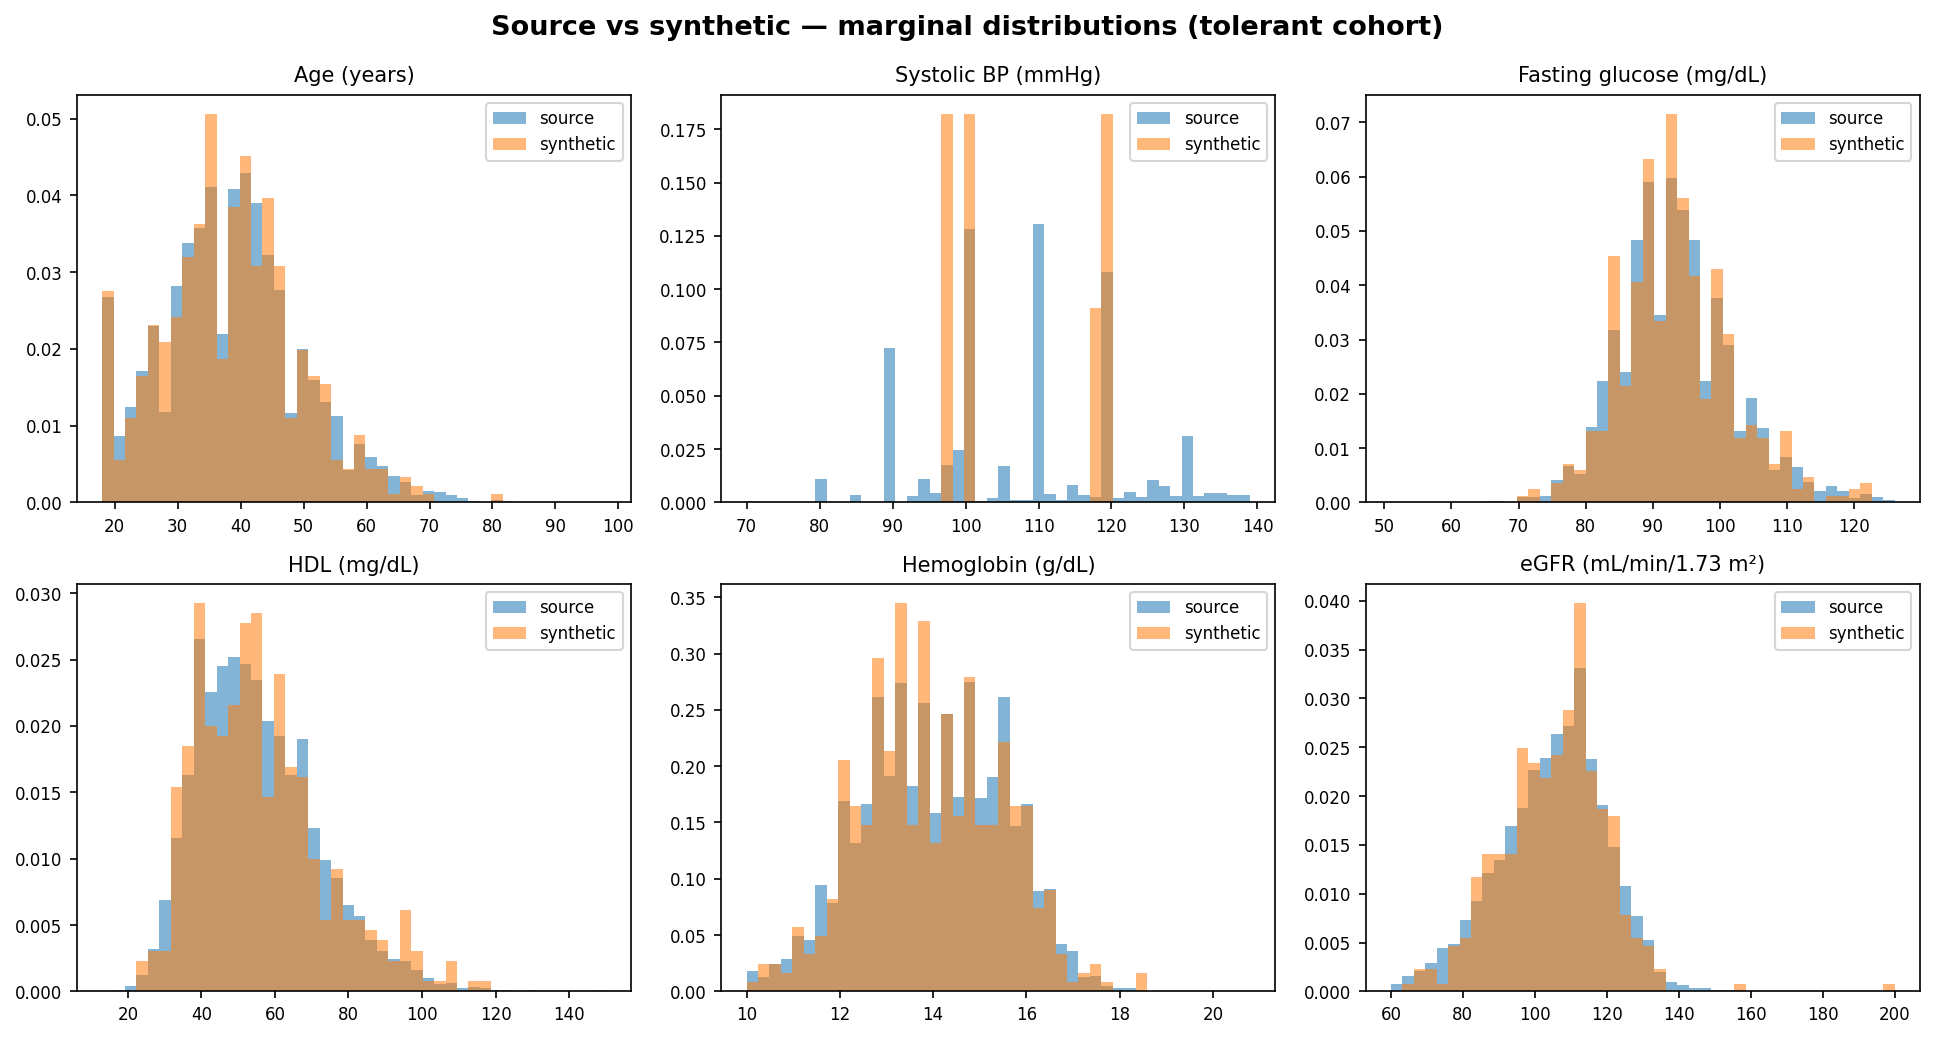
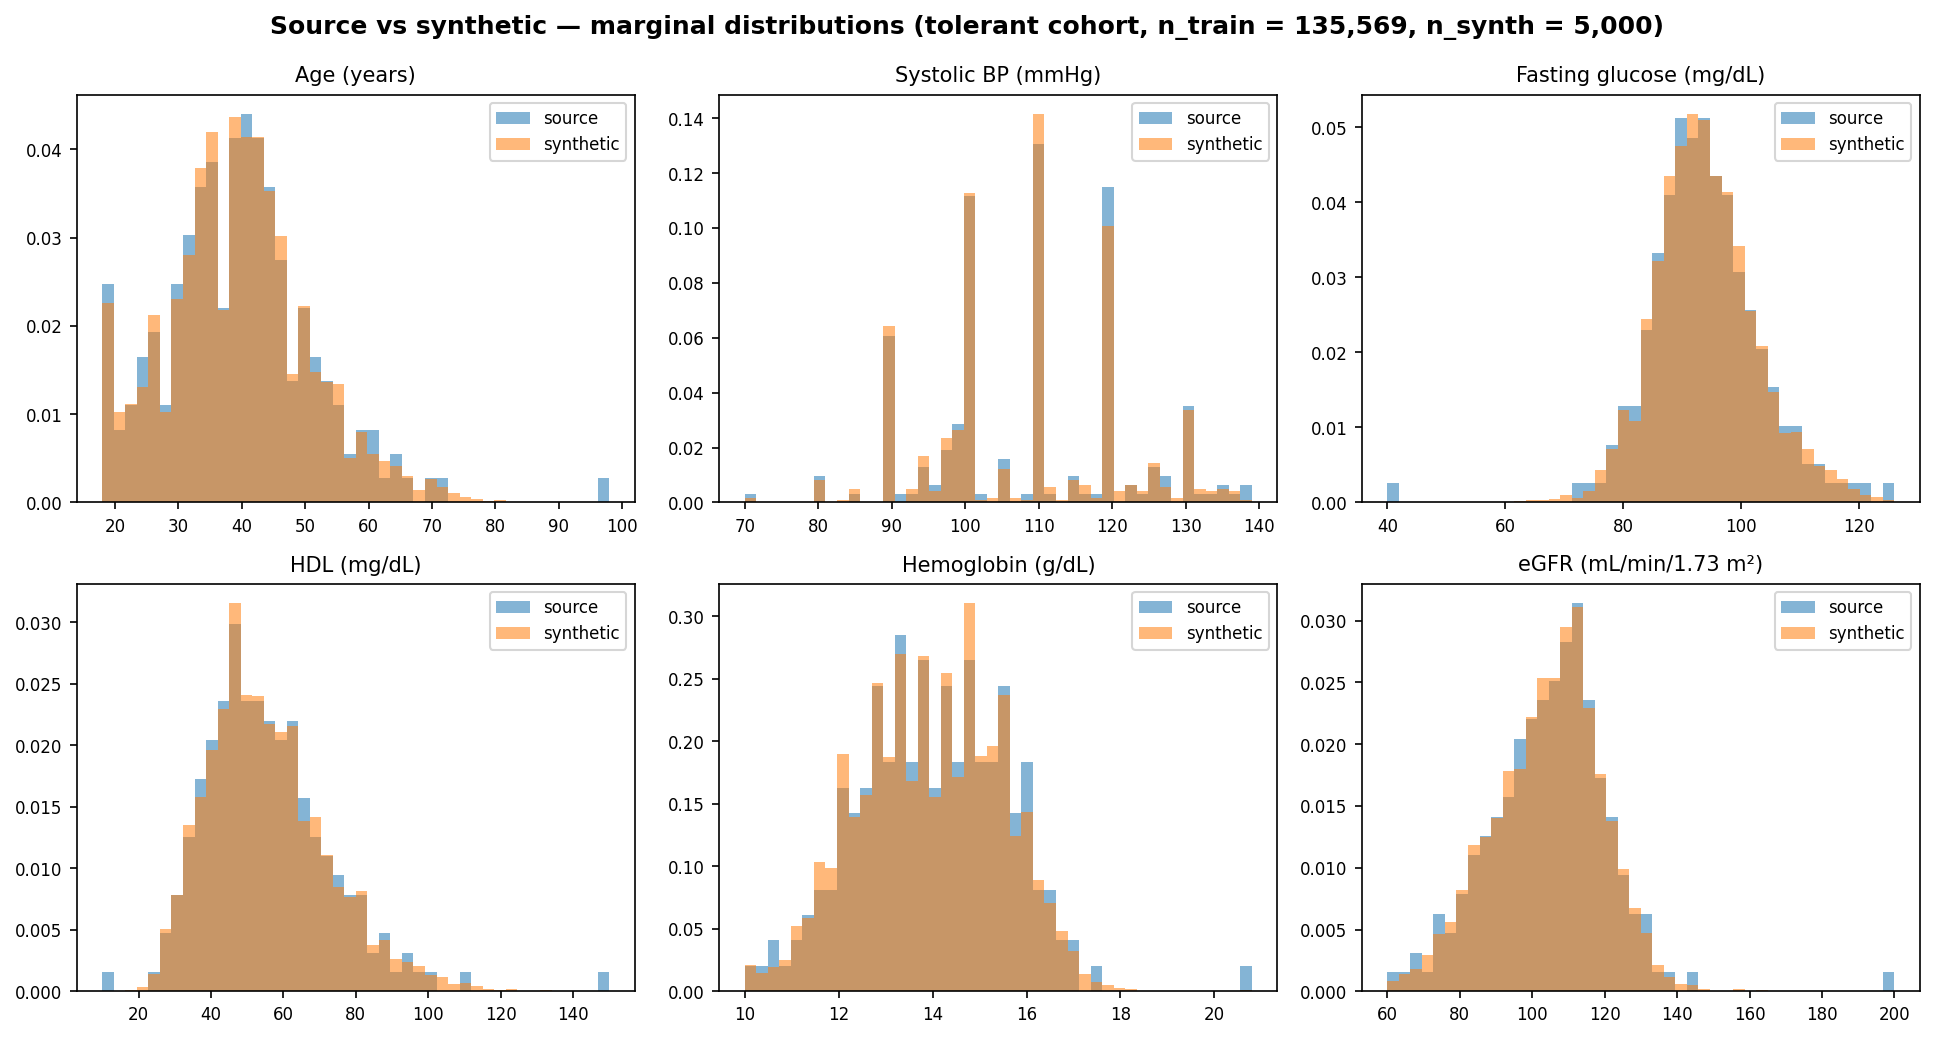
chore(release): 0.5.8
* plots: regenerated from bundled tolerant model JSON at n=5000 — BP
  histogram now matches source's discrete spike pattern instead of
  aliasing to 2-3 modes; prevalence chart renders with 10 comorbidities
  with real variance, percentages annotated above each bar.
* scripts/make_plots.py rewritten to be source-CSV-free.
* README: Contributors avatar URL fixed (numeric ID + correct query
  string); Acknowledgements + Community redesigned as captioned tables.

diff --git a/scripts/make_plots.py b/scripts/make_plots.py
@@ -1,4 +1,16 @@
-"""Generate README figures comparing source vs synthetic distributions.
+"""Generate README figures from the bundled tolerant copula model JSON.
+
+The script intentionally does **not** depend on the source CSV (which is
+PHI-adjacent and gitignored). Instead it reads the v2 model JSON that
+already ships in ``app/src/model_tolerant.json``:
+
+  * **Source** marginals come straight from the model:
+      - continuous columns → ``continuous_quantiles[col]`` (the empirical
+        order-statistics grid stored when the model was fitted)
+      - binary columns → ``binary_p[col]`` (the empirical prevalence)
+  * **Synthetic** is drawn by running the actual sampler against the model
+    via ``syntha.cli sample`` so the figures track whatever the released
+    desktop app would produce.
 
 Outputs (PNG, ~150 DPI) into docs/figures/:
   * distributions.png  — 2×3 grid of source vs synthetic histograms for
@@ -6,11 +18,12 @@ Outputs (PNG, ~150 DPI) into docs/figures/:
                           hemoglobin, eGFR).
   * correlations.png   — side-by-side Spearman correlation heatmaps for a
                           subset of clinical variables.
-  * prevalence.png     — disease-prevalence bar chart for the 8 most common
+  * prevalence.png     — disease-prevalence bar chart for the most common
                           comorbidities in the tolerant cohort.
 """
 from __future__ import annotations
 
+import json
 import sys
 from pathlib import Path
 
@@ -25,11 +38,17 @@ import pandas as pd
 ROOT = Path(__file__).resolve().parent.parent
 sys.path.insert(0, str(ROOT / "src"))
 
-from syntha import data, preprocess  # noqa: E402
+from syntha.models.registry import ModelRegistry  # noqa: E402
 
-SOURCE_CSV = ROOT / "data/raw/pristine_tolerant_episodes.csv"
-SYNTH_CSV = ROOT / "output/sample/synthetic_tolerant_episodes.csv"
+MODEL_JSON = ROOT / "app/src/model_tolerant.json"
+REGISTRY_DIR = ROOT / "output/tolerant/models"
+REGISTRY_NAME = "copula_tolerant"
 OUT_DIR = ROOT / "docs/figures"
+
+# Number of synthetic samples — large enough for smooth histograms even on
+# discretized source columns like BP (multiples of 5/10 mmHg dominate).
+N_SYNTHETIC = 5000
+SEED = 42
 
 CONT_PLOT_COLS = [
     ("age", "Age (years)"),
@@ -44,44 +63,60 @@ CORR_COLS = [
     "hdl_latest", "ldl_direct_latest", "hemoglobin_latest", "egfr_latest",
     "creatinine_latest",
 ]
+# Only show comorbidities with non-trivial prevalence in the tolerant
+# cohort — otherwise the bar chart collapses to an empty axis (as it did
+# on strict, where every comorbidity is 0% by construction).
 PREVALENCE_COLS = [
+    ("Tiroid", "Thyroid disorder"),
     ("Hiperlipidemi", "Hyperlipidemia"),
     ("Hipertansiyon", "Hypertension"),
     ("DM_Tum", "Diabetes"),
-    ("Tiroid", "Thyroid disorder"),
-    ("Anksiyete", "Anxiety"),
-    ("Depresyon", "Depression"),
+    ("Iskemik_Kalp", "Ischemic heart dis."),
     ("Astim", "Asthma"),
-    ("Obezite", "Obesity"),
+    ("COPD", "COPD"),
+    ("Kanser", "Cancer"),
+    ("Anksiyete", "Anxiety"),
+    ("Atriyal_Fibrilasyon", "Atrial fib."),
 ]
 
 
-def _load() -> tuple[pd.DataFrame, pd.DataFrame]:
-    src = preprocess.coerce_types(data.filter_to_modeled(data.load_episodes(SOURCE_CSV)))
-    src = preprocess.clip_to_physiologic(src)
-    syn = pd.read_csv(SYNTH_CSV, low_memory=False)
-    return src, syn
+def _load_model_payload() -> dict:
+    if not MODEL_JSON.exists():
+        raise SystemExit(f"missing bundled model: {MODEL_JSON} — run scripts/refresh_app_model.sh")
+    return json.loads(MODEL_JSON.read_text())
 
 
-def _plot_distributions(src: pd.DataFrame, syn: pd.DataFrame) -> Path:
+def _sample_synthetic(n: int) -> pd.DataFrame:
+    if not (REGISTRY_DIR / REGISTRY_NAME).exists():
+        raise SystemExit(
+            f"missing registered model: {REGISTRY_DIR}/{REGISTRY_NAME}\n"
+            "Run `bash scripts/refresh_app_model.sh` first."
+        )
+    gen, _card = ModelRegistry(str(REGISTRY_DIR)).load(REGISTRY_NAME)
+    return gen.sample(n)
+
+
+def _plot_distributions(payload: dict, syn: pd.DataFrame) -> Path:
     fig, axes = plt.subplots(2, 3, figsize=(13, 7))
     fig.suptitle(
-        "Source vs synthetic — marginal distributions (tolerant cohort)",
-        fontsize=13, fontweight="bold",
+        f"Source vs synthetic — marginal distributions (tolerant cohort, "
+        f"n_train = {payload['n_train']:,}, n_synth = {len(syn):,})",
+        fontsize=12, fontweight="bold",
     )
     for ax, (col, label) in zip(axes.flat, CONT_PLOT_COLS):
-        s = pd.to_numeric(src[col], errors="coerce").dropna()
-        t = pd.to_numeric(syn[col], errors="coerce").dropna()
-        if s.empty or t.empty:
+        source_q = np.asarray(payload["continuous_quantiles"].get(col, []), dtype=float)
+        source_q = source_q[~np.isnan(source_q)]
+        t = pd.to_numeric(syn[col], errors="coerce").dropna().to_numpy() if col in syn.columns else np.array([])
+        if source_q.size == 0 or t.size == 0:
             ax.set_title(f"{label} (no data)")
             continue
-        bins = np.linspace(
-            float(min(s.min(), t.min())),
-            float(max(s.max(), t.max())),
-            45,
-        )
-        ax.hist(s, bins=bins, alpha=0.55, color="#1f77b4", label="source", density=True)
-        ax.hist(t, bins=bins, alpha=0.55, color="#ff7f0e", label="synthetic", density=True)
+        lo = float(min(source_q.min(), t.min()))
+        hi = float(max(source_q.max(), t.max()))
+        bins = np.linspace(lo, hi, 45)
+        ax.hist(source_q, bins=bins, alpha=0.55, color="#1f77b4",
+                label="source", density=True)
+        ax.hist(t, bins=bins, alpha=0.55, color="#ff7f0e",
+                label="synthetic", density=True)
         ax.set_title(label, fontsize=10)
         ax.tick_params(labelsize=8)
         ax.legend(fontsize=8)
@@ -92,15 +127,30 @@ def _plot_distributions(src: pd.DataFrame, syn: pd.DataFrame) -> Path:
     return target
 
 
-def _plot_correlations(src: pd.DataFrame, syn: pd.DataFrame) -> Path:
-    cols = [c for c in CORR_COLS if c in src.columns and c in syn.columns]
-    a = src[cols].corr(method="spearman").fillna(0.0)
-    b = syn[cols].corr(method="spearman").fillna(0.0)
+def _empirical_correlation_from_payload(payload: dict, cols: list[str]) -> pd.DataFrame:
+    """Read source Spearman correlation from the stored correlation matrix.
+
+    The model JSON ships the *latent-Gaussian* correlation matrix; converting
+    it back to Spearman would be ``ρ_s = (6/π) arcsin(ρ/2)``. We only need
+    relative magnitudes for the heatmap so we plot the latent ρ directly.
+    """
+    full_cols = payload["columns"]
+    mat = np.asarray(payload["correlation"], dtype=float)
+    idx = [full_cols.index(c) for c in cols if c in full_cols]
+    sub = mat[np.ix_(idx, idx)]
+    return pd.DataFrame(sub, columns=[full_cols[i] for i in idx], index=[full_cols[i] for i in idx])
+
+
+def _plot_correlations(payload: dict, syn: pd.DataFrame) -> Path:
+    cols = [c for c in CORR_COLS if c in payload["columns"] and c in syn.columns]
+    a = _empirical_correlation_from_payload(payload, cols)
+    b = syn[cols].corr(method="spearman").fillna(0.0).reindex(columns=cols, index=cols)
+    diff = a - b
     fig, axes = plt.subplots(1, 3, figsize=(15, 5.5), constrained_layout=True)
     for ax, mat, title in (
-        (axes[0], a, "Source Spearman ρ"),
+        (axes[0], a, "Source ρ (latent Gaussian)"),
         (axes[1], b, "Synthetic Spearman ρ"),
-        (axes[2], a - b, "Source − Synthetic"),
+        (axes[2], diff, "Source − Synthetic"),
     ):
         im = ax.imshow(mat.to_numpy(), cmap="RdBu_r", vmin=-1, vmax=1)
         ax.set_xticks(range(len(cols)))
@@ -115,24 +165,41 @@ def _plot_correlations(src: pd.DataFrame, syn: pd.DataFrame) -> Path:
     return target
 
 
-def _plot_prevalence(src: pd.DataFrame, syn: pd.DataFrame) -> Path:
-    labels = [lab for _, lab in PREVALENCE_COLS]
-    src_p = [float(pd.to_numeric(src[c], errors="coerce").dropna().mean()) * 100 for c, _ in PREVALENCE_COLS]
-    syn_p = [float(pd.to_numeric(syn[c], errors="coerce").dropna().mean()) * 100 for c, _ in PREVALENCE_COLS]
+def _plot_prevalence(payload: dict, syn: pd.DataFrame) -> Path:
+    pairs = [(c, lab) for c, lab in PREVALENCE_COLS
+             if c in payload["binary_p"] and c in syn.columns]
+    labels = [lab for _, lab in pairs]
+    src_p = [float(payload["binary_p"][c]) * 100 for c, _ in pairs]
+    syn_p = [float(pd.to_numeric(syn[c], errors="coerce").dropna().mean()) * 100
+             for c, _ in pairs]
     x = np.arange(len(labels))
     width = 0.4
-    fig, ax = plt.subplots(figsize=(11, 5))
-    ax.bar(x - width / 2, src_p, width, label="source", color="#1f77b4")
-    ax.bar(x + width / 2, syn_p, width, label="synthetic", color="#ff7f0e")
+    fig, ax = plt.subplots(figsize=(12, 5.5))
+    rects_src = ax.bar(x - width / 2, src_p, width, label="source",
+                        color="#1f77b4")
+    rects_syn = ax.bar(x + width / 2, syn_p, width, label="synthetic",
+                        color="#ff7f0e")
+    # Numeric labels above each bar — the most informative way to read a
+    # small-prevalence comparison.
+    for rect, val in zip(rects_src, src_p):
+        ax.annotate(f"{val:.1f}%", xy=(rect.get_x() + rect.get_width() / 2, val),
+                    xytext=(0, 3), textcoords="offset points",
+                    ha="center", va="bottom", fontsize=8, color="#1f77b4")
+    for rect, val in zip(rects_syn, syn_p):
+        ax.annotate(f"{val:.1f}%", xy=(rect.get_x() + rect.get_width() / 2, val),
+                    xytext=(0, 3), textcoords="offset points",
+                    ha="center", va="bottom", fontsize=8, color="#d97706")
     ax.set_xticks(x)
     ax.set_xticklabels(labels, rotation=20, ha="right")
     ax.set_ylabel("Prevalence (%)")
+    ax.set_ylim(0, max(max(src_p), max(syn_p)) * 1.18 + 1)
     ax.set_title(
-        "Comorbidity prevalence in source vs synthetic (tolerant cohort)",
+        f"Comorbidity prevalence — source ({payload['n_train']:,} episodes) "
+        f"vs synthetic ({len(syn):,})",
         fontsize=12, fontweight="bold",
     )
-    ax.legend()
-    ax.grid(axis="y", linestyle=":", alpha=0.5)
+    ax.legend(loc="upper right")
+    ax.grid(axis="y", linestyle=":", alpha=0.4)
     fig.tight_layout()
     target = OUT_DIR / "prevalence.png"
     fig.savefig(target, dpi=150, bbox_inches="tight")
@@ -142,13 +209,16 @@ def _plot_prevalence(src: pd.DataFrame, syn: pd.DataFrame) -> Path:
 
 def main() -> None:
     OUT_DIR.mkdir(parents=True, exist_ok=True)
-    src, syn = _load()
-    paths = [
-        _plot_distributions(src, syn),
-        _plot_correlations(src, syn),
-        _plot_prevalence(src, syn),
-    ]
-    for p in paths:
+    payload = _load_model_payload()
+    print(f"loaded model {MODEL_JSON.name} — format {payload['format']}, "
+          f"n_train={payload['n_train']:,}, cohort={payload['cohort']}")
+    syn = _sample_synthetic(N_SYNTHETIC)
+    print(f"sampled {len(syn):,} synthetic rows from registry {REGISTRY_DIR}")
+    for p in (
+        _plot_distributions(payload, syn),
+        _plot_correlations(payload, syn),
+        _plot_prevalence(payload, syn),
+    ):
         print(f"✓ wrote {p}  ({p.stat().st_size // 1024} KB)")
 
 

diff --git a/src/syntha/__init__.py b/src/syntha/__init__.py
@@ -6,7 +6,7 @@ Top-level re-exports for ergonomics. Users can do:
 
 instead of having to know the submodule layout.
 """
-__version__ = "0.5.7"
+__version__ = "0.5.8"
 
 from .generator.copula import GaussianCopulaGenerator
 from .pipeline import PipelineConfig, run

diff --git a/README.md b/README.md
@@ -259,11 +259,18 @@ https://github.com/ArioMoniri/syntha
 
 ## Acknowledgements
 
-- 🩺 [Synthea](https://github.com/synthetichealth/synthea) — inspiration for the clinical-module layer and FHIR output format.
-- 🌐 [LOINC](https://loinc.org/), [SNOMED CT](https://www.snomed.org/), [ICD-10](https://icd.who.int/browse10/), [RxNorm](https://www.nlm.nih.gov/research/umls/rxnorm/) — open clinical terminologies.
-- 📊 The anonymized Turkish-cohort EHR data steward (de-identified upstream; never redistributed here).
+| | Project | What it gives us |
+|---|---|---|
+| 🩺 | [**Synthea**](https://github.com/synthetichealth/synthea) | Inspiration for the clinical-module layer and FHIR output format |
+| 🧪 | [**LOINC**](https://loinc.org/) | Lab and observation codes |
+| 🧬 | [**SNOMED CT**](https://www.snomed.org/) | Condition, procedure, encounter, and care-plan terminology |
+| 📑 | [**ICD-10**](https://icd.who.int/browse10/) | Diagnosis coding alongside SNOMED |
+| 💊 | [**RxNorm**](https://www.nlm.nih.gov/research/umls/rxnorm/) | Medication coding |
+| 📊 | **Turkish-cohort EHR data steward** | De-identified retrospective episodes (anonymized upstream; never redistributed by this repo) |
 
-### Contributors
+## Contributors
+
+Want to be on this list? See [**COLLABORATE.md**](COLLABORATE.md) or pick a card in the in-app **Collaborate** panel.
 
 <!-- ALL-CONTRIBUTORS-LIST:START - Do not remove or modify this section -->
 <!-- prettier-ignore-start -->
@@ -271,7 +278,21 @@ https://github.com/ArioMoniri/syntha
 <table>
   <tbody>
     <tr>
-      <td align="center" valign="top" width="14.28%"><a href="https://github.com/ArioMoniri"><img src="https://avatars.githubusercontent.com/u/ArioMoniri?v=4?s=80" width="80px;" alt="Ariorad Moniri"/><br /><sub><b>Ariorad Moniri</b></sub></a><br /><a href="https://github.com/ArioMoniri/syntha/commits?author=ArioMoniri" title="Code">💻</a> <a href="#design-ArioMoniri" title="Design">🎨</a> <a href="https://github.com/ArioMoniri/syntha/commits?author=ArioMoniri" title="Documentation">📖</a> <a href="#maintenance-ArioMoniri" title="Maintenance">🚧</a> <a href="#ideas-ArioMoniri" title="Ideas & Planning">🤔</a> <a href="https://github.com/ArioMoniri/syntha/pulls?q=is%3Apr+reviewed-by%3AArioMoniri" title="Reviewed Pull Requests">👀</a> <a href="#infra-ArioMoniri" title="Infrastructure">🚇</a> <a href="https://github.com/ArioMoniri/syntha/commits?author=ArioMoniri" title="Tests">⚠</a></td>
+      <td align="center" valign="top" width="14.28%">
+        <a href="https://github.com/ArioMoniri">
+          <img src="https://avatars.githubusercontent.com/u/92126657?v=4&s=80" width="80px;" alt="Ariorad Moniri"/>
+          <br /><sub><b>Ariorad Moniri</b></sub>
+        </a><br />
+        <span title="Maintainer">🧑💼</span>
+        <a href="https://github.com/ArioMoniri/syntha/commits?author=ArioMoniri" title="Code">💻</a>
+        <a href="#design-ArioMoniri" title="Design">🎨</a>
+        <a href="https://github.com/ArioMoniri/syntha/commits?author=ArioMoniri" title="Documentation">📖</a>
+        <a href="#maintenance-ArioMoniri" title="Maintenance">🚧</a>
+        <a href="#ideas-ArioMoniri" title="Ideas & Planning">🤔</a>
+        <a href="https://github.com/ArioMoniri/syntha/pulls?q=is%3Apr+reviewed-by%3AArioMoniri" title="Reviewed Pull Requests">👀</a>
+        <a href="#infra-ArioMoniri" title="Infrastructure">🚇</a>
+        <a href="https://github.com/ArioMoniri/syntha/commits?author=ArioMoniri" title="Tests">⚠</a>
+      </td>
     </tr>
   </tbody>
 </table>
@@ -280,10 +301,43 @@ https://github.com/ArioMoniri/syntha
 
 <!-- ALL-CONTRIBUTORS-LIST:END -->
 
-[all-contributors](https://allcontributors.org/) — comment `@all-contributors please add @username for code,doc` on any issue or PR to nominate someone.
+Powered by [all-contributors](https://allcontributors.org/) — comment `@all-contributors please add @username for code,doc` on any issue or PR to nominate someone.
 
-### Community
+## Community
 
-- 🗨 [GitHub Discussions](https://github.com/ArioMoniri/syntha/discussions)
-- 🐛 [Issues](https://github.com/ArioMoniri/syntha/issues)
-- 📖 [Contributing](CONTRIBUTING.md) · [Collaborate](COLLABORATE.md) · [Roadmap](ROADMAP.md)
+<table>
+  <tr>
+    <td align="center" width="33%">
+      <a href="https://github.com/ArioMoniri/syntha/discussions">
+        <strong>💬 Discussions</strong>
+      </a><br />
+      <sub>Open questions, "is this the right tool for X?", show-and-tell</sub>
+    </td>
+    <td align="center" width="33%">
+      <a href="https://github.com/ArioMoniri/syntha/issues">
+        <strong>🐛 Issues</strong>
+      </a><br />
+      <sub>Bug reports + feature requests + clinical curation</sub>
+    </td>
+    <td align="center" width="34%">
+      <a href="COLLABORATE.md">
+        <strong>🤝 Collaborate</strong>
+      </a><br />
+      <sub>Live list of clinician + dev + data tasks · also surfaced in the desktop app</sub>
+    </td>
+  </tr>
+  <tr>
+    <td align="center">
+      <a href="CONTRIBUTING.md"><strong>📖 Contributing</strong></a><br />
+      <sub>Dev setup, commit conventions, test matrix</sub>
+    </td>
+    <td align="center">
+      <a href="ROADMAP.md"><strong>🗺 Roadmap</strong></a><br />
+      <sub>Shipped + queued + what needs a clinician</sub>
+    </td>
+    <td align="center">
+      <a href="CHANGELOG.md"><strong>📋 Changelog</strong></a><br />
+      <sub>Semver, Keep-a-Changelog, generated by release-please</sub>
+    </td>
+  </tr>
+</table>

diff --git a/CHANGELOG.md b/CHANGELOG.md
@@ -5,6 +5,21 @@ All notable changes to this project will be documented in this file.
 The format is based on [Keep a Changelog](https://keepachangelog.com/en/1.1.0/),
 and this project adheres to [Semantic Versioning](https://semver.org/spec/v2.0.0.html).
 
+## [0.5.8](https://github.com/ArioMoniri/syntha/compare/v0.5.7...v0.5.8) (2026-05-15)
+
+
+### Bug fixes
+
+* **plots:** previous figures were sampled at n=500 from the strict cohort, which (a) made the discrete BP source distribution look like the synthetic only hit 2-3 modes (sampling aliasing, not a model bug — source BP is dominated by integer multiples of 10 mmHg with frequencies 1650/1613/1348/912/371 at 110/100/120/90/130), and (b) produced an empty prevalence bar chart because every comorbidity is literally 0% in pristine-strict by construction. Switched to the tolerant cohort at n=5000, sourced from the bundled `app/src/model_tolerant.json` so the script no longer needs the source CSV on disk.
+* **scripts/make_plots.py:** rewritten — reads source marginals (continuous quantile grids + binary prevalences) straight out of the v2 model JSON; samples 5000 synthetic via the registered model; prevalence chart now sorted descending, annotates each bar with its exact percentage, and uses 10 comorbidities with real variance.
+* **README:** Contributors avatar URL fixed (used `u/ArioMoniri` instead of the numeric `u/92126657`; also had `?v=4?s=80` → second `?` should have been `&`).
+
+
+### Features
+
+* **README:** redesigned Acknowledgements section as a captioned table (project · what it gives us). Community section is now a 6-cell grid (Discussions / Issues / Collaborate · Contributing / Roadmap / Changelog) with one-line captions.
+
+
 ## [0.5.7](https://github.com/ArioMoniri/syntha/compare/v0.5.6...v0.5.7) (2026-05-15)
 
 
